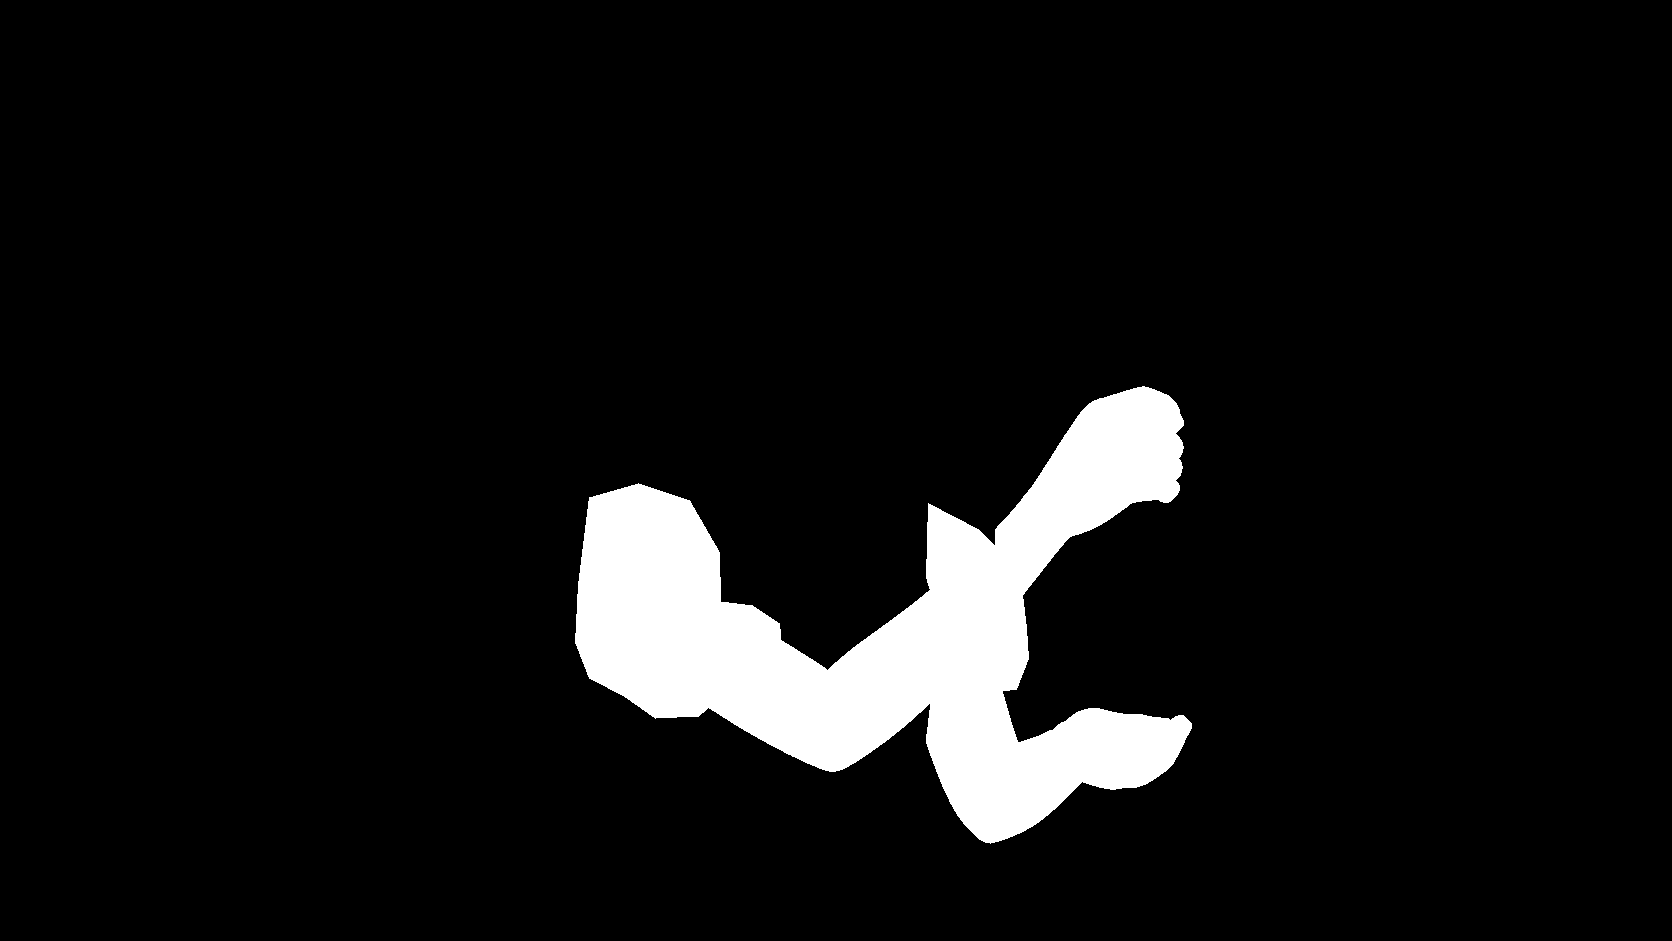
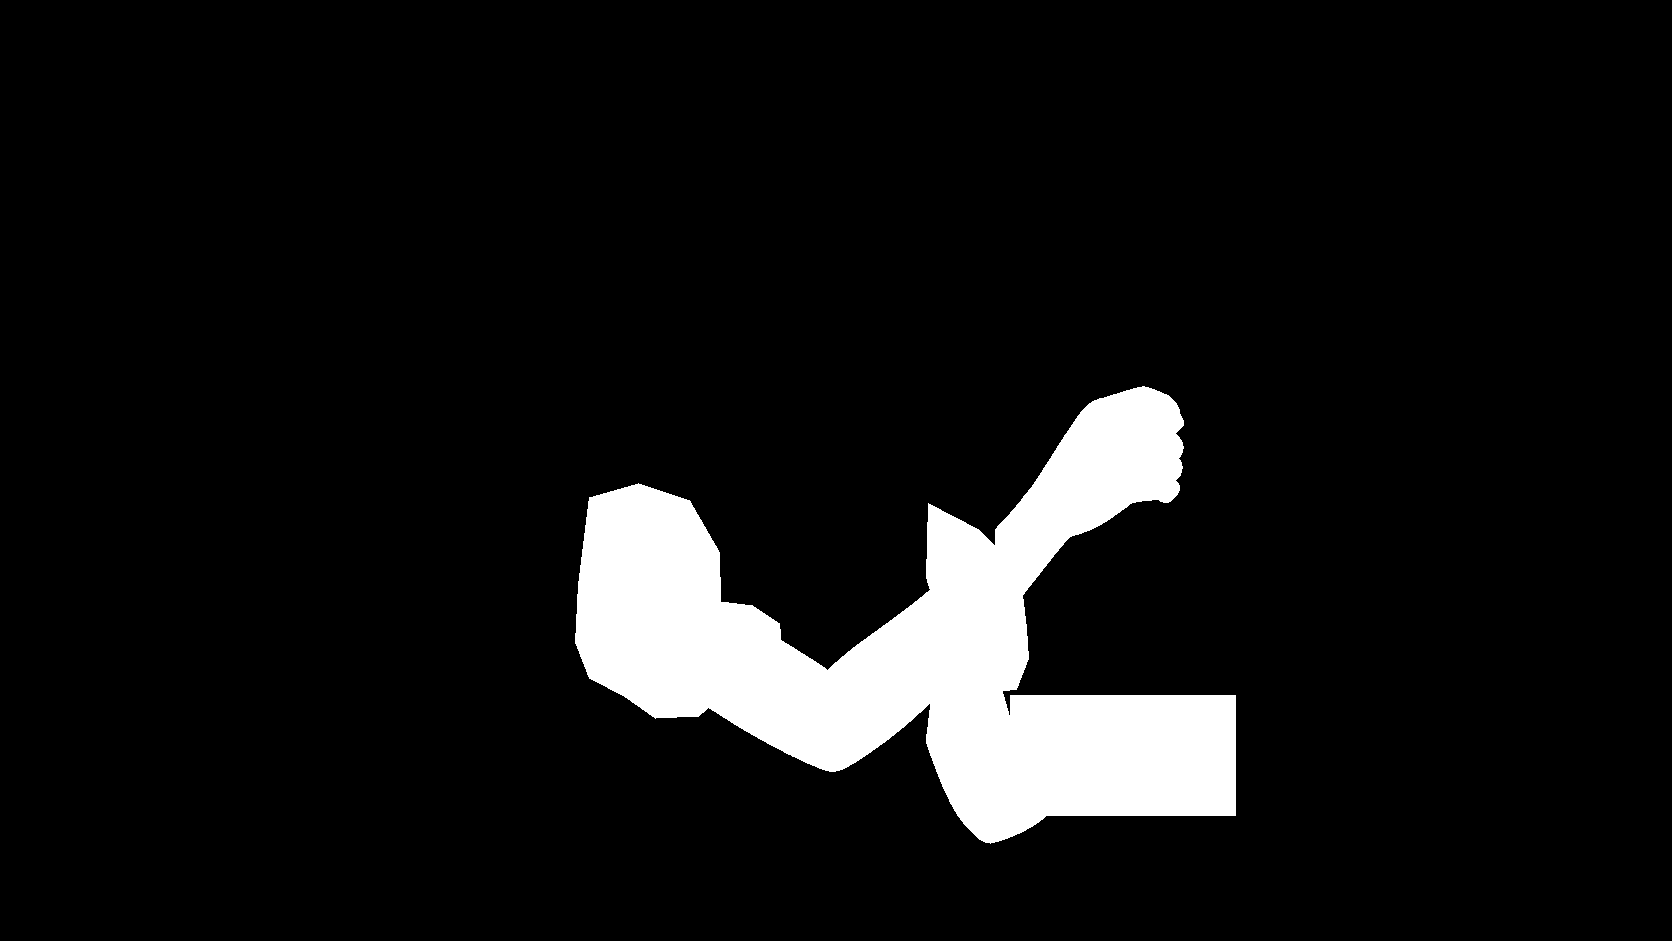
collab: complete left finger protection in clothing mask

Changed region(s): [[0.5909, 0.7396, 0.7464, 0.8937]]

diff --git a/collab/reviews/cloud_s09_20261018/pre_tap_segment/clothing_semantic_review/build_preparation.py b/collab/reviews/cloud_s09_20261018/pre_tap_segment/clothing_semantic_review/build_preparation.py
@@ -31,7 +31,9 @@ arms_skin=np.isin(lab,ids);arms_skin=binary_dilation(arms_skin,iterations=6)
 # Conservative full sleeve/cuff protection keeps anatomy, attached cloth ruffles and arm silhouettes fixed.
 near_sleeve=polygon([(589,497),(638,483),(689,500),(719,552),(720,601),(752,605),(779,623),(781,646),(749,671),(698,716),(655,718),(624,696),(589,678),(575,642),(578,584)])
 far_sleeve=polygon([(928,503),(978,529),(1019,569),(1026,628),(1028,658),(1016,689),(973,695),(947,672),(940,625),(926,577)])
-arms=arms_skin|near_sleeve|far_sleeve
+# The far palm's curled fingers have separated skin islands; protect the WHOLE actual palm rectangle.
+complete_left_palm=(xx>=1010)&(xx<=1235)&(yy>=695)&(yy<=815)
+arms=arms_skin|near_sleeve|far_sleeve|complete_left_palm
 head_neck_collar=yy<=590  # Includes a conservative shirt collar margin; chest repair is below603.
 torch=polygon([(1035,160),(1235,160),(1235,690),(1035,690)])
 # Preserve all true visible alpha boundaries; do not treat the off-shot canvas crop as a drawn contour.
@@ -85,6 +87,8 @@ checks={'status':'SEMANTIC_CROP_MASK_AND_SAME_RAW_CLOTH_CANDIDATE_PENDING_ASTRA'
  'candidate_outside_semantic_mask_changes':int(np.any(c[~combined]!=a[~combined],axis=1).sum()),
  'candidate_hard_domain_changes':int(np.any(c[hard]!=a[hard],axis=1).sum()),
  'candidate_alpha_changes':int((c[:,:,3]!=a[:,:,3]).sum()),
+ 'complete_left_palm_box_native':[1010,695,1235,815],
+ 'complete_left_palm_hard_coverage':bool(hard[complete_left_palm].all()),
  'candidate_native_pixels_taken':int(np.any(c!=a,axis=2).sum()),
  'no_donor_claim_outside_mask':'Source05 body/head pixels are never used outside the semantic fabric union; full arm/prop/head/outer silhouette remains current locked source.',
  'remaining_review':'Inspect full white dots, uninterrupted waist/skirt folds and donor joins at hard boundaries. This is a review candidate, not accepted artwork; no new native clothing repair until semantic masks are reviewed.',

diff --git a/collab/reviews/cloud_s09_20261018/pre_tap_segment/clothing_semantic_review/README.md b/collab/reviews/cloud_s09_20261018/pre_tap_segment/clothing_semantic_review/README.md
@@ -1,6 +1,6 @@
 # 031衣片语义域／同raw接回候选 · 先交Astra审
 
-**新增生成0。** 先看 [三处实图对照](qa/three_semantic_regions_comparison.png)、[完整语义域](qa/full_semantic_domain_overlay.png)、[720候选](qa/same_call05_1280x720_pending_review.png)。三行分别是胸口截断白点、旧臂腾空躯干／腰片、连续裙褶；每行依次为当前031／唯一call05同位连续衣片／接回候选。
+**新增生成0。** 先看 [三处实图对照](qa/three_semantic_regions_comparison.png)、[完整语义域](qa/full_semantic_domain_overlay.png)、[720候选](qa/same_call05_1280x720_pending_review.png)。三行分别是胸口截断白点、旧臂腾空躯干／腰片、连续裙褶；每行依次为当前031／唯一call05同位连续衣片／接回候选。6.1sol独审后已补整掌包络硬保护，避免肤色分类漏卷指小岛；候选PNG逐字节不变，见`qa/cloud_61sol_actual_review.md`。
 
 [联合mask](masks/semantic_clothing_union.png)明确包括胸口，三份独立语义mask及`crops/`内逐区原图／供体／候选／mask均齐，不再只给裙部两条。[硬保护域](masks/hard_protection_all.png)涵盖头颈领口、完整双臂肤色链及袖口褶边、整手电、真实外轮廓7px保护带与背景。肩袖白点仍在完整袖片保护区，本次未动，不把衣片修复扩大成改臂许可。
 

diff --git a/collab/reviews/cloud_s09_20261018/pre_tap_segment/clothing_semantic_review/qa/cloud_61sol_actual_review.md b/collab/reviews/cloud_s09_20261018/pre_tap_segment/clothing_semantic_review/qa/cloud_61sol_actual_review.md
@@ -1,0 +1,5 @@
+# 6.1sol实际复核及保护补齐
+
+既有只读审者实际看三处对照、720图、语义域并独立重放：胸白点、腰片及主裙褶已连，未见新的明显内部衣纹断裂；域外／硬域／alpha变化均0。外轮廓旧小锯齿仍保留，不能据此宣称整态通过。
+
+审者发现肤色连通分类漏了左手卷指小岛约364px，原生位置x1174–1206、y725–763；与编辑域交集0，原候选未动手。现已将完整左掌包络(1010,695)–(1235,815)硬保护，不再依赖肤色连通分类覆盖每根手指。重放确认手掌完整覆盖，候选PNG与补保护前逐字节一致；无新生成。
